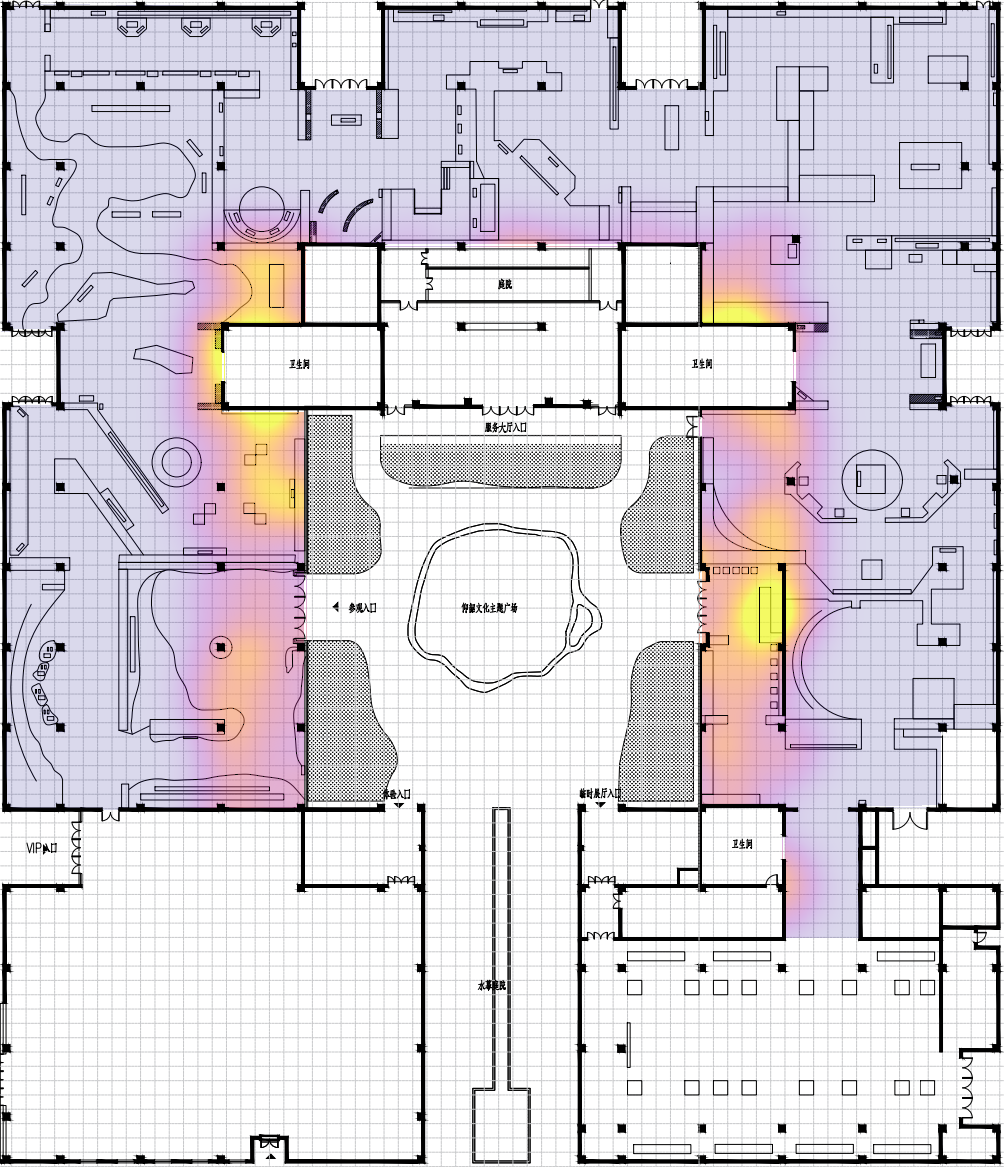
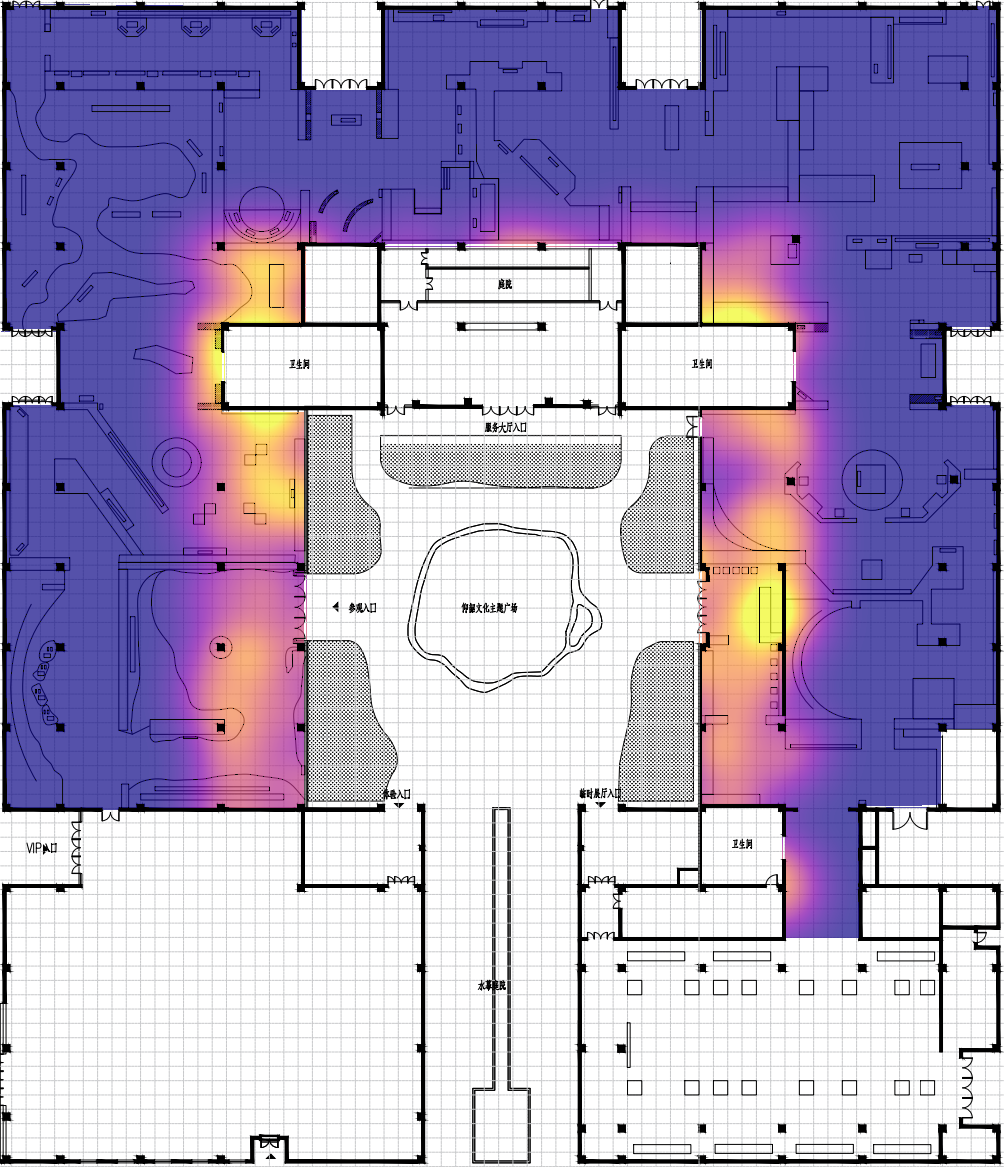
fix: use raw visit scale for heatmap and usage duration

diff --git a/static/js/app.js b/static/js/app.js
@@ -11,8 +11,10 @@ const VIEWS = {
     dataTypes: ['img', 'loc'],
     stats: [
       { key: 'total_records', label: '总记录数', unit: '条', cls: '' },
-      { key: 'unique_users', label: '唯一用户数', unit: '人', cls: 'teal' },
+      { key: 'unique_users', label: '独立人员数', unit: '人', cls: 'teal' },
       { key: 'peak_frequency', label: '峰值频次', unit: '次', cls: 'accent' },
+      { key: 'avg_frequency', label: '平均频次', unit: '次', cls: '' },
+      { key: 'min_frequency', label: '最小频次', unit: '次', cls: 'amber' },
       { key: 'covered_area_pct', label: '覆盖栅格', unit: '%', cls: 'amber' },
     ]
   },

diff --git a/templates/compare.html b/templates/compare.html
@@ -217,7 +217,7 @@ var METRIC_ORDER = [
 ];
 
 var VIEWS_STATS = {
-  heatmap:           [{key:'total_records',label:'总记录数',unit:''},{key:'unique_users',label:'独立用户',unit:''},{key:'peak_frequency',label:'峰值频次',unit:''},{key:'covered_area_pct',label:'覆盖面积',unit:'%'}],
+  heatmap:           [{key:'total_records',label:'总记录数',unit:''},{key:'unique_users',label:'独立人员数',unit:''},{key:'peak_frequency',label:'峰值频次',unit:''},{key:'avg_frequency',label:'平均频次',unit:''},{key:'min_frequency',label:'最小频次',unit:''},{key:'covered_area_pct',label:'覆盖面积',unit:'%'}],
   usetime:           [{key:'total_users',label:'用户数',unit:''},{key:'avg_time_min',label:'平均使用时长',unit:'min'},{key:'max_time_min',label:'最长',unit:'min'}],
   speed:             [{key:'avg_speed_mps',label:'平均速率',unit:'m/s'},{key:'max_speed_mps',label:'最大速率',unit:'m/s'}],
   duration:          [{key:'avg_stay_min',label:'平均停留',unit:'min'},{key:'max_stay_min',label:'最长停留',unit:'min'}],

diff --git a/api/analysis.py b/api/analysis.py
@@ -112,6 +112,7 @@ from PIL import Image
 analysis_bp = Blueprint('analysis', __name__)
 
 SCALE = 18.06  # px / meter
+USAGE_SECONDS_PER_RECORD = 10  # 使用时长：每条定位记录代表该人员在该坐标停留 10 秒
 
 
 # ─────────────────────────────────────────────
@@ -283,6 +284,35 @@ def filter_points_in_mask(x: np.ndarray, y: np.ndarray,
     return x[valid], y[valid]
 
 
+def summarize_frequency_grid(density: np.ndarray) -> dict:
+    """基于热力图原始平滑密度值生成到访频次摘要。"""
+    peak = float(np.nanmax(density)) if density.size else 0.0
+    if not np.isfinite(peak) or peak <= 0:
+        return {
+            'peak_frequency': 0,
+            'min_frequency': 0,
+            'avg_frequency': 0,
+            'covered_area_pct': 0,
+        }
+
+    active = density[np.isfinite(density) & (density > peak * 0.05)]
+    if active.size == 0:
+        active = density[np.isfinite(density) & (density > 0)]
+    if active.size == 0:
+        active = np.array([0.0])
+
+    def _fmt(v):
+        v = float(v)
+        return round(v, 2) if v < 10 else int(round(v))
+
+    return {
+        'peak_frequency': _fmt(peak),
+        'min_frequency': _fmt(float(np.nanmin(active))),
+        'avg_frequency': _fmt(float(np.nanmean(active))),
+        'covered_area_pct': round(float(active.size) / float(density.size) * 100, 1),
+    }
+
+
 # ─────────────────────────────────────────────
 # 功能 1：到访频次热力图
 # ─────────────────────────────────────────────
@@ -323,7 +353,9 @@ def heatmap():
         # KDE 渐变热力图（无栅格），热力不渗入墙体
         overlay, density = _make_heatmap_overlay(img, x, y, alpha=0.70, cmap='plasma',
                                                  walkable_mask=walkable,
-                                                 coverage_mask=coverage_mask)
+                                                 coverage_mask=coverage_mask,
+                                                 norm_percentile=None,
+                                                 scale_to_kernel_area=True)
 
         fig, axes = plt.subplots(1, 2, figsize=(14, 6))
         fig.patch.set_facecolor(th['fig_bg'])
@@ -334,7 +366,9 @@ def heatmap():
         ax0.axis('off')
         ax0.set_title('到访频次热力图', color=th['text'], fontsize=13, pad=10)
 
-        sm = plt.cm.ScalarMappable(cmap='plasma', norm=mcolors.Normalize(0, 1))
+        freq_stats = summarize_frequency_grid(density)
+        vmax = float(np.nanmax(density)) if density.size and np.isfinite(np.nanmax(density)) else 0.0
+        sm = plt.cm.ScalarMappable(cmap='plasma', norm=mcolors.Normalize(0, vmax if vmax > 0 else 1.0))
         sm.set_array([])
         cbar = fig.colorbar(sm, ax=ax0, fraction=0.03, pad=0.02)
         cbar.ax.tick_params(colors=th['cbar_tick'], labelsize=8)
@@ -357,13 +391,10 @@ def heatmap():
         img_b64 = fig_to_base64(fig)
         plt.close(fig)
 
-        n_nonzero = int((density > density.max() * 0.05).sum())
-        peak_raw = float(density.max())
         summary = {
             'total_records': int(len(df)),
             'unique_users': int(df['UserID'].nunique()) if 'UserID' in df.columns else '-',
-            'peak_frequency': round(peak_raw, 2) if peak_raw < 10 else int(round(peak_raw)),
-            'covered_area_pct': round(n_nonzero / density.size * 100, 1),
+            **freq_stats,
         }
         return jsonify({'image': img_b64, 'summary': summary})
 
@@ -623,11 +654,15 @@ def _bg_compute(sid, img_b, img_n, loc_b, loc_n, beh_b, beh_n,
         walkable = _get_walkable()
         overlay, density = _make_heatmap_overlay(img, x, y, alpha=0.70, cmap='plasma',
                                                   walkable_mask=walkable,
-                                                  coverage_mask=_get_coverage_mask())
+                                                  coverage_mask=_get_coverage_mask(),
+                                                  norm_percentile=None,
+                                                  scale_to_kernel_area=True)
         fig0, ax0 = plt.subplots(figsize=(9, 6)); fig0.patch.set_facecolor(th['fig_bg'])
         ax0.set_facecolor('white'); ax0.imshow(overlay); ax0.axis('off')
         ax0.set_title('到访频次热力图', color=th['text'], fontsize=13, pad=10)
-        sm = plt.cm.ScalarMappable(cmap='plasma', norm=mcolors.Normalize(0, 1))
+        freq_stats = summarize_frequency_grid(density)
+        vmax = float(np.nanmax(density)) if density.size and np.isfinite(np.nanmax(density)) else 0.0
+        sm = plt.cm.ScalarMappable(cmap='plasma', norm=mcolors.Normalize(0, vmax if vmax > 0 else 1.0))
         sm.set_array([]); cbar = fig0.colorbar(sm, ax=ax0, fraction=0.03, pad=0.02)
         cbar.ax.tick_params(colors=th['cbar_tick'], labelsize=8)
         cbar.set_label('到访密度', color=th['subtext'], fontsize=9)
@@ -640,12 +675,10 @@ def _bg_compute(sid, img_b, img_n, loc_b, loc_n, beh_b, beh_n,
             _bar_common(ax1, rc['Region'], rc['count'], color=th['accent'], ylabel='到访人次', th=th)
             ax1.set_title('各空间单元到访频次', color=th['text'], fontsize=13)
             plt.tight_layout(pad=2); img2_b64 = fig_to_base64(fig1); plt.close(fig1)
-        n_nz = int((density > density.max() * 0.05).sum())
         return {'image': img_b64, 'image2': img2_b64, 'summary': {
             'total_records': int(len(df)),
             'unique_users': int(df['UserID'].nunique()) if 'UserID' in df.columns else '-',
-            'peak_frequency': round(float(density.max()), 2),
-            'covered_area_pct': round(n_nz / density.size * 100, 1),
+            **freq_stats,
         }}
     _run_metric('heatmap', _heatmap)
 
@@ -653,16 +686,17 @@ def _bg_compute(sid, img_b, img_n, loc_b, loc_n, beh_b, beh_n,
     def _usetime():
         if not loc_b or not img_b: return None
         df = load_df(mk(loc_b, loc_n))
-        if not {'X','Y','Region','t'}.issubset(df.columns): return None
-        df = df.dropna(subset=['X','Y','Region','t'])
+        if not {'X','Y','Region'}.issubset(df.columns): return None
+        df = df.dropna(subset=['X','Y','Region'])
         if len(df) == 0: return None
         df = _normalize_xy(df)
         x=df['X'].astype(float).values; y=df['Y'].astype(float).values
-        t=df['t'].astype(float).values; regions=df['Region'].astype(int).values
+        weights=np.full(len(df), USAGE_SECONDS_PER_RECORD, dtype=float)
+        regions=df['Region'].astype(int).values
         img=load_img(mk(img_b, img_n))
         reg_ids=np.sort(np.unique(regions))
-        reg_dur=np.array([t[regions==r].sum() for r in reg_ids])
-        overlay,fg=_make_heatmap_overlay(img,x,y,weights=t,alpha=0.65,cmap='jet',
+        reg_dur=np.array([weights[regions==r].sum() for r in reg_ids])
+        overlay,fg=_make_heatmap_overlay(img,x,y,weights=weights,alpha=0.65,cmap='jet',
                                           walkable_mask=_get_walkable(),
                                           coverage_mask=_get_coverage_mask())
         fig0,ax0=plt.subplots(figsize=(9,6)); fig0.patch.set_facecolor(th['fig_bg'])
@@ -678,7 +712,7 @@ def _bg_compute(sid, img_b, img_n, loc_b, loc_n, beh_b, beh_n,
         _bar_common(ax1,reg_ids,reg_dur,color='#00c9a7',ylabel='时长 (s)',th=th)
         ax1.set_title('各空间单元使用时长',color=th['text'],fontsize=13)
         plt.tight_layout(pad=2); img2_b64=fig_to_base64(fig1); plt.close(fig1)
-        return {'image':img_b64,'image2':img2_b64,'summary':{'total_records':int(len(df)),'total_duration_s':round(float(t.sum()),2),'avg_duration_s':round(float(reg_dur.mean()),2),'max_duration_s':round(float(reg_dur.max()),2),'min_duration_s':round(float(reg_dur.min()),2),'region_count':int(len(reg_ids)),'peak_region':int(reg_ids[np.argmax(reg_dur)])}}
+        return {'image':img_b64,'image2':img2_b64,'summary':{'total_records':int(len(df)),'seconds_per_record':USAGE_SECONDS_PER_RECORD,'total_duration_s':round(float(weights.sum()),2),'avg_duration_s':round(float(reg_dur.mean()),2),'max_duration_s':round(float(reg_dur.max()),2),'min_duration_s':round(float(reg_dur.min()),2),'region_count':int(len(reg_ids)),'peak_region':int(reg_ids[np.argmax(reg_dur)])}}
     _run_metric('usetime', _usetime)
 
     # ── A3 移动速率 ──
@@ -3210,7 +3244,8 @@ def cluster():
 # ─────────────────────────────────────────────
 
 def _make_heatmap_overlay(img_arr, x, y, weights=None, alpha=0.70, cmap='jet',
-                          bandwidth=None, theme='dark', walkable_mask=None, coverage_mask=None):
+                          bandwidth=None, theme='dark', walkable_mask=None, coverage_mask=None,
+                          norm_percentile=99, scale_to_kernel_area=False):
     """KDE 像素级高斯密度热力图叠加，返回 (overlay RGB float[0,1], density_2d)
 
     walkable_mask : bool 数组 (H,W)，False = 平面图自动识别的墙体，
@@ -3219,6 +3254,10 @@ def _make_heatmap_overlay(img_arr, x, y, weights=None, alpha=0.70, cmap='jet',
                    提供后采用"填充0值点"策略：
                    在 coverage_mask=True 区域均匀撒0值点，确保整个区域都有数据，
                    高斯平滑后实现完整热力场，无明显边界。
+    norm_percentile : 默认用正值区 99 分位数压制极端峰值；传 None 时用原始最大值，
+                   适合到访频次这类需要图例和渲染都对应原始数值的图。
+    scale_to_kernel_area : 将高斯平滑后的密度乘以 2πσ²，恢复到近似原始计数/权重尺度。
+                   到访频次使用 True，避免图例出现很小的小数密度值。
     未提供 coverage_mask 时：仅 density>0 处做 alpha 叠加（原有行为）。
     """
     h, w = img_arr.shape[:2]
@@ -3271,6 +3310,10 @@ def _make_heatmap_overlay(img_arr, x, y, weights=None, alpha=0.70, cmap='jet',
     if walkable_mask is not None:
         density_smooth = density_smooth * walkable_mask.astype(float)
 
+    density_render = density_smooth
+    if scale_to_kernel_area:
+        density_render = density_smooth * (2 * np.pi * (float(bandwidth) ** 2))
+
     cm = _get_cmap(cmap)
     img_f = img_arr / 255.0
 
@@ -3278,13 +3321,17 @@ def _make_heatmap_overlay(img_arr, x, y, weights=None, alpha=0.70, cmap='jet',
     if coverage_mask is not None:
         fill_mask = coverage_mask.astype(bool)
 
-        vmax = density_smooth.max()
+        vmax = density_render.max()
         if vmax > 0:
-            pos_vals = density_smooth[fill_mask & (density_smooth > 0)]
+            pos_vals = density_render[fill_mask & (density_render > 0)]
             if len(pos_vals) == 0:
-                pos_vals = density_smooth[density_smooth > 0]
-            p99 = float(np.percentile(pos_vals, 99)) if len(pos_vals) else float(vmax)
-            density_norm = np.clip(density_smooth / p99, 0, 1)
+                pos_vals = density_render[density_render > 0]
+            norm_max = float(vmax) if norm_percentile is None else (
+                float(np.percentile(pos_vals, norm_percentile)) if len(pos_vals) else float(vmax)
+            )
+            if norm_max <= 0 or not np.isfinite(norm_max):
+                norm_max = float(vmax)
+            density_norm = np.clip(density_render / norm_max, 0, 1)
 
             heat_rgba = cm(density_norm)  # (H, W, 4)
             heat_rgb  = heat_rgba[:, :, :3]  # (H, W, 3)
@@ -3297,23 +3344,27 @@ def _make_heatmap_overlay(img_arr, x, y, weights=None, alpha=0.70, cmap='jet',
         else:
             overlay = img_f.copy()
 
-        return np.clip(overlay, 0, 1), density_smooth
+        return np.clip(overlay, 0, 1), density_render
 
     # ── 无 coverage_mask：全图固定 alpha 叠加，0值区显示最低颜色，结构线透过来 ──
-    vmax = density_smooth.max()
+    vmax = density_render.max()
     if vmax <= 0:
         return img_f, density
 
-    pos_vals = density_smooth[density_smooth > 0]
-    p99 = float(np.percentile(pos_vals, 99)) if len(pos_vals) else float(vmax)
-    density_norm = np.clip(density_smooth / p99, 0, 1)
+    pos_vals = density_render[density_render > 0]
+    norm_max = float(vmax) if norm_percentile is None else (
+        float(np.percentile(pos_vals, norm_percentile)) if len(pos_vals) else float(vmax)
+    )
+    if norm_max <= 0 or not np.isfinite(norm_max):
+        norm_max = float(vmax)
+    density_norm = np.clip(density_render / norm_max, 0, 1)
 
     heat_rgba = cm(density_norm)
     heat_rgb  = heat_rgba[:, :, :3]
 
     # 全图固定 alpha 叠加：0密度区显示最低颜色，结构线通过半透明可见
     overlay = img_f * (1 - alpha) + heat_rgb * alpha
-    return np.clip(overlay, 0, 1), density_smooth
+    return np.clip(overlay, 0, 1), density_render
 
 
 def _make_rbf_overlay(img_arr, x, y, values, alpha=0.65, cmap='RdYlBu_r',
@@ -3569,17 +3620,20 @@ def usetime():
             return jsonify({'error': '请上传定位数据和平面图'}), 400
 
         df = load_df(loc_file)
-        required = {'X', 'Y', 'Region', 't'}
+        required = {'X', 'Y', 'Region'}
         if not required.issubset(df.columns):
             return jsonify({'error': f'缺少列: {required - set(df.columns)}'}), 400
 
+        df = df.dropna(subset=['X', 'Y', 'Region'])
+        if len(df) == 0:
+            return jsonify({'error': '没有有效的 X/Y/Region 数据'}), 400
+
         x = df['X'].astype(float).values
         y = df['Y'].astype(float).values
-        t = df['t'].astype(float).values
+        weights = np.full(len(df), USAGE_SECONDS_PER_RECORD, dtype=float)
         regions = df['Region'].astype(int).values
 
         img = load_img(img_file)
-        h_img, w_img = img.shape[:2]
 
         theme_name = request.form.get('theme', 'dark')
         th = _theme(theme_name)
@@ -3589,12 +3643,12 @@ def usetime():
 
         # 按区域累计时长
         reg_ids = np.sort(np.unique(regions))
-        reg_durations = np.array([t[regions == r].sum() for r in reg_ids])
+        reg_durations = np.array([weights[regions == r].sum() for r in reg_ids])
 
-        # 热力叠加（以 t 为权重）
+        # 热力叠加：每条定位记录代表 10 秒停留时长
         _bg_file = request.files.get('background_img')
         _coverage = extract_measurement_mask(load_img(_bg_file)) if _bg_file is not None else extract_measurement_mask(img)
-        overlay, freq_grid = _make_heatmap_overlay(img, x, y, weights=t, alpha=0.65, cmap='jet',
+        overlay, freq_grid = _make_heatmap_overlay(img, x, y, weights=weights, alpha=0.65, cmap='jet',
                                                     walkable_mask=extract_walkable_mask(img),
                                                     coverage_mask=_coverage)
 
@@ -3624,7 +3678,11 @@ def usetime():
 
         summary = {
             'total_records': int(len(df)),
-            'total_duration_s': int(t.sum()),
+            'seconds_per_record': USAGE_SECONDS_PER_RECORD,
+            'total_duration_s': int(weights.sum()),
+            'avg_duration_s': round(float(reg_durations.mean()), 2),
+            'max_duration_s': round(float(reg_durations.max()), 2),
+            'min_duration_s': round(float(reg_durations.min()), 2),
             'region_count': int(len(reg_ids)),
             'peak_region': int(reg_ids[np.argmax(reg_durations)]),
         }

diff --git a/docs/heatmap_strategy_template.md b/docs/heatmap_strategy_template.md
@@ -146,6 +146,8 @@ overlay, density = _make_heatmap_overlay(
     bandwidth=None,        # None 时自动取 max(min(h, w) * 0.025, 8)
     walkable_mask=walkable,
     coverage_mask=coverage,
+    norm_percentile=None,  # 到访频次用原始峰值做色带上限；其他密度图默认 99 分位
+    scale_to_kernel_area=True,  # 到访频次恢复到近似访问次数尺度
 )
 ```
 
@@ -159,8 +161,9 @@ overlay, density = _make_heatmap_overlay(
 3. 构建像素级 `density[h, w]`。
 4. 对 `density` 做 `gaussian_filter()`。
 5. 如果有 `walkable_mask`，平滑后乘 mask，压掉墙体区域。
-6. 用 99 分位数归一化，减少极端峰值压缩整体颜色。
-7. 输出 RGB overlay 和平滑后的 density。
+6. 默认用 99 分位数归一化，减少极端峰值压缩整体颜色；到访频次传 `norm_percentile=None`，用原始最大值生成图例并渲染。
+7. 到访频次额外传 `scale_to_kernel_area=True`，把高斯平滑后的密度乘以 `2πσ²`，恢复到近似访问次数尺度，避免图例只有极小小数。
+8. 输出 RGB overlay 和用于图例/摘要的 density。
 
 有 `coverage_mask` 时的叠加策略：
 
@@ -191,8 +194,16 @@ overlay, density = _make_heatmap_overlay(
     cmap='jet',
     walkable_mask=walkable,
     coverage_mask=coverage,
+    norm_percentile=None,
+    scale_to_kernel_area=True,
 )
 ```
+
+使用时长当前规则：
+
+- 每条定位记录代表该人员在该坐标停留 `10s`。
+- 区域总使用时长 = 该区域有效定位记录数 `* 10s`。
+- `t` 列不再用于使用时长累计；若要分析真实停留秒数，需要新增专门的时长字段并调整规则。
 
 ## `_make_rbf_overlay()` 策略
 